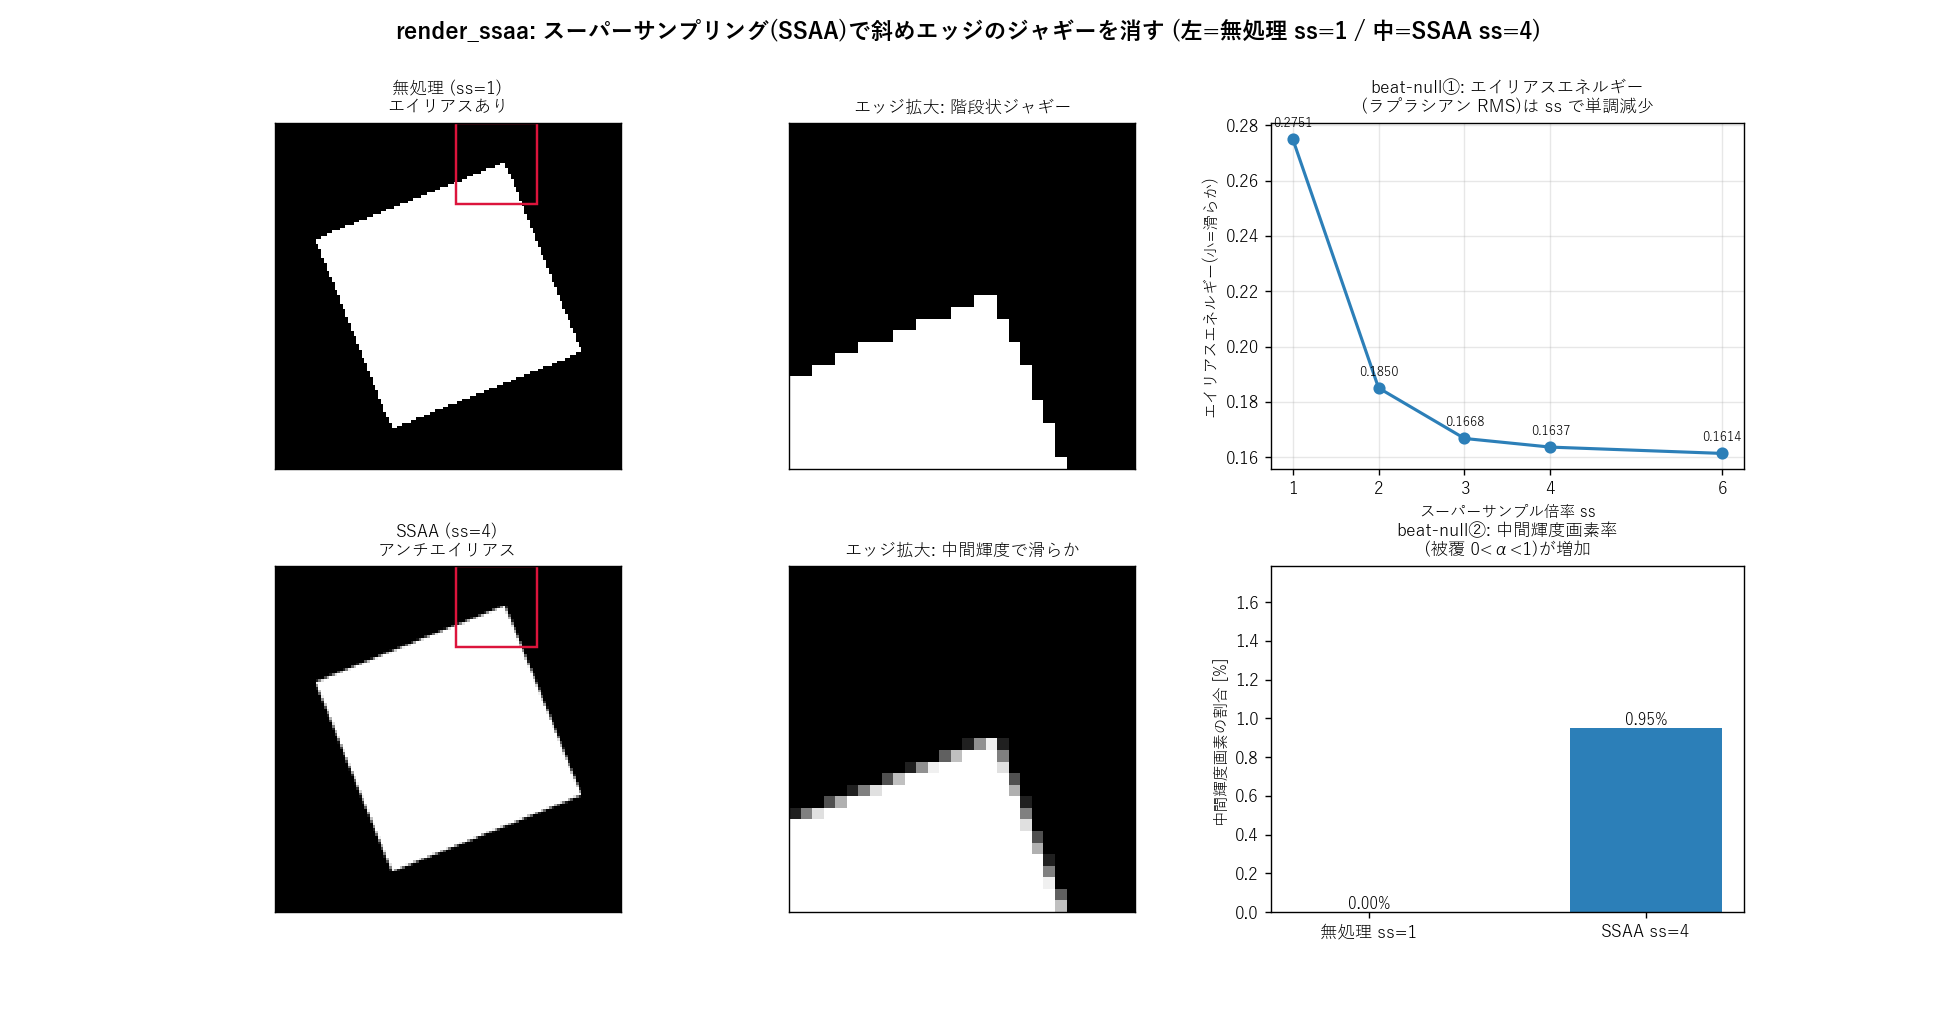
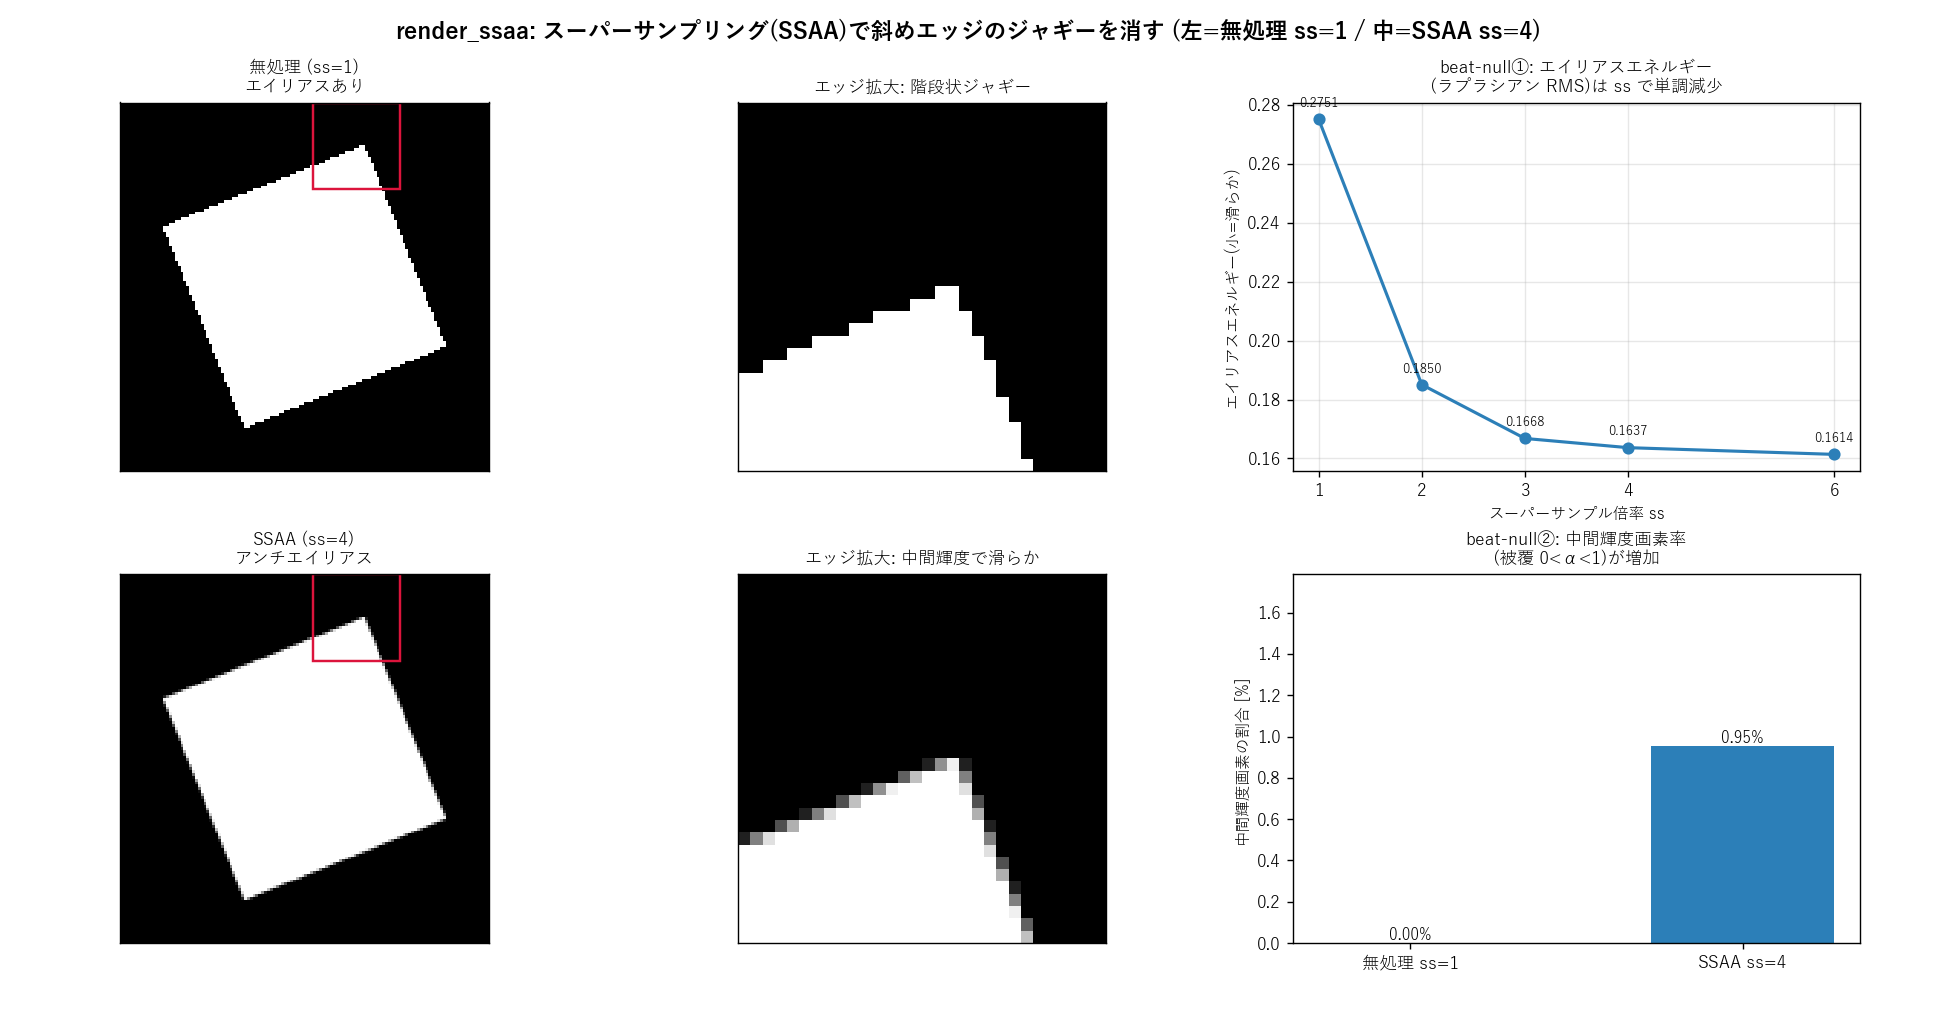
auto: render_shadow.py 編集前 (2026-08-28 13:38)

diff --git a/render_shadow.py b/render_shadow.py
@@ -1,0 +1,333 @@
+# Copyright (c) 2026 Kazufumi Furuse. Licensed under the Apache License, Version 2.0 (see LICENSE).
+"""キャスト影 / ソフトシャドウ(shadow mapping + 面光源のペナンブラ)。
+
+``render3d.render_mesh`` は depth / silhouette / normal の**幾何バッファ**を返すが、
+陰影(``match3d.render_shaded`` / ``photometric.render_lambertian``)は各点の法線と光源の
+内積(直接光の強さ)しか見ておらず、**別の物体に遮られて光が届かない**という大域的な
+可視性=影を一切扱わない。だから床の上に置いた球は「陰(self-shadow=法線が光に背く側)」は
+出ても「接地影(cast shadow=球が床に落とす影)」が出ず、物体が宙に浮いて見える。ここはその
+欠けている 1 ピースだけを埋める:
+
+    光源から見た深度(shadow map)を基準に、受光面の各点が光源との間に別の面で
+    遮られているか(shadow mapping; Williams 1978)を判定して可視性 [0,1] を返す。
+
+**既存レンダ op との差(固有価値, honest)**:
+  - ``render3d.render_mesh``        … 幾何バッファ(depth/silhouette/normal)。可視性=影は無い。
+  - ``match3d.render_shaded`` /
+    ``photometric.render_lambertian`` … Lambertian 直接光(法線·光源)。self-shadow のみ。
+                                        物体間の遮蔽(cast shadow)は扱わない。
+  - ``imgio.shaded_relief``          … 高さ場の傾斜による陰影(hillshade)。3D メッシュの
+                                        投影影ではない。
+  - **本モジュール** … *物体間の遮蔽* を光源空間の深度比較で解く唯一の op。``cast_shadow`` の
+                       出力を上の陰影画像に乗算すれば接地影つきの「映える静止 3D」になる。
+
+原理:
+  * 光源をカメラに見立て ``render_mesh`` で light-space depth(shadow map)を取る
+    (ラスタライザは再発明しない — 既存の z-buffer をそのまま流用)。
+  * カメラ側の depth から受光面点をワールドへ逆投影(``unproject_to_world``)し、光源空間へ
+    射影して深度比較する。手前に別の面があれば影。
+  * ペナンブラ(半影)= 面光源の角半径。中心光源方向のまわり ``penumbra`` の円錐内へ
+    複数方向をばらまき(Fibonacci ディスク)、各方向のハード影を平均する(面光源の近似)。
+    光源が大きいほど半影帯が幾何学的に広がる — カーネル幅を手で決める PCF と違い、
+    半影は幾何から**創発**する。
+
+慣習(``render3d`` に合わせる):
+  * ``pose``       4x4 の object->camera 行列(``render3d.look_at``)。
+  * ``intrinsics`` 3x3 ピンホール ``K``(``render3d.intrinsics_from_fov``)。
+  * ``light``      (3,) ベクトル。``directional=True``(既定)なら「シーンから光源へ向かう
+                   単位方向」(平行光)。``directional=False`` ならワールド座標の点光源位置。
+  * 返り値の shadow は (H, W) float64 ∈ [0,1]、**1=完全に照らされる / 0=完全な影**、
+                   受光面が無い背景画素は 1.0(遮る相手がいない=影ではない)。
+
+Honest limitations:
+  * shadow map は有限解像度なので、影の縁は light 解像度 ``shadow_res`` に依存する
+    (バイアスは傾斜スケールで自動設定するが、極端に斜めな受光面では acne / peter-panning が
+    残りうる)。透明・屈折・多重反射・カラー影は扱わない(不透明な遮蔽のみ)。
+  * 平行光は「十分遠い」点として近似する(既定 40×シーン半径)。厳密な無限遠平行ではない。
+
+Reference (public):
+  * L. Williams, "Casting Curved Shadows on Curved Surfaces", SIGGRAPH 1978(shadow mapping)。
+  * W. Reeves, D. Salesin, R. Cook, "Rendering Antialiased Shadows with Depth Maps",
+    SIGGRAPH 1987(PCF / 複数サンプル平均)。
+"""
+from __future__ import annotations
+
+import numpy as np
+
+import render3d
+
+__all__ = ["cast_shadow", "unproject_to_world"]
+
+_EPS = 1e-12
+
+
+def _resolve_view(V, pose, intrinsics, width: int, height: int):
+    """pose / intrinsics のどちらかが None なら render3d.auto_view で補完し具体行列にする。"""
+    if pose is None or intrinsics is None:
+        dpose, dK = render3d.auto_view(V, margin=1.2, width=width, height=height)
+    P = dpose if pose is None else np.asarray(pose, np.float64)
+    K = dK if intrinsics is None else np.asarray(intrinsics, np.float64)
+    if P.shape != (4, 4):
+        raise ValueError("pose must be 4x4, got %r" % (P.shape,))
+    if K.shape != (3, 3):
+        raise ValueError("intrinsics must be 3x3, got %r" % (K.shape,))
+    if not (np.all(np.isfinite(P)) and np.all(np.isfinite(K))):
+        raise ValueError("pose / intrinsics contain non-finite values")
+    return P, K
+
+
+def unproject_to_world(depth, pose, intrinsics) -> np.ndarray:
+    """深度画像 (H,W) を **ワールド座標の点群** (H,W,3) へ逆投影する。
+
+    ``render3d.render_mesh`` の depth(camera 前方の距離、背景は非有限)と、そのときの
+    ``pose`` (object->camera 4x4) / ``intrinsics`` (3x3) から各画素の 3D 位置を復元する。
+    背景(非有限 depth)や光源背後(depth<=0)の画素は NaN。ピクセル中心は ``render_mesh`` と
+    同じ ``+0.5`` を使う。fail-closed: 形状不正・非有限行列は ``ValueError``。"""
+    d = np.asarray(depth, np.float64)
+    if d.ndim != 2:
+        raise ValueError("depth must be 2-D (H,W), got %r" % (d.shape,))
+    P = np.asarray(pose, np.float64)
+    K = np.asarray(intrinsics, np.float64)
+    if P.shape != (4, 4) or K.shape != (3, 3):
+        raise ValueError("pose must be 4x4 and intrinsics 3x3")
+    if not (np.all(np.isfinite(P)) and np.all(np.isfinite(K))):
+        raise ValueError("pose / intrinsics contain non-finite values")
+
+    h, w = d.shape
+    fx, fy, cx, cy = float(K[0, 0]), float(K[1, 1]), float(K[0, 2]), float(K[1, 2])
+    if abs(fx) < _EPS or abs(fy) < _EPS:
+        raise ValueError("intrinsics focal length is degenerate (fx or fy ~ 0)")
+
+    cols = np.arange(w, dtype=np.float64) + 0.5
+    rows = np.arange(h, dtype=np.float64) + 0.5
+    u, v = np.meshgrid(cols, rows)                       # (H, W)
+
+    valid = np.isfinite(d) & (d > 0.0)
+    dd = np.where(valid, d, np.nan)
+    # render_mesh の投影: su = fx*Xc/(-Zc)+cx, sv = cy-fy*Yc/(-Zc), depth = -Zc.
+    Xc = (u - cx) * dd / fx
+    Yc = -(v - cy) * dd / fy
+    Zc = -dd
+    Pc = np.stack([Xc, Yc, Zc], axis=-1)                 # (H, W, 3) camera space
+
+    R = P[:3, :3]
+    t = P[:3, 3]
+    # Vc = R @ Vw + t  ->  Vw = R^T (Vc - t) ; 行ベクトルでは (Vc - t) @ R
+    Pw = (Pc - t) @ R
+    Pw[~valid] = np.nan
+    return Pw
+
+
+def _light_camera(center, radius, ldir_or_pos, directional: bool, shadow_res: int,
+                  margin: float = 1.3):
+    """光源を「シーンを枠に収めるカメラ」として pose / K / 光源方向 / 距離を作る。"""
+    center = np.asarray(center, np.float64).reshape(3)
+    if directional:
+        ldir = np.asarray(ldir_or_pos, np.float64).reshape(3)
+        n = np.linalg.norm(ldir)
+        if not np.isfinite(n) or n < _EPS:
+            raise ValueError("light direction must be finite and non-zero")
+        ldir = ldir / n
+        dist = 40.0 * radius                             # 平行光近似(十分遠い点)
+        eye = center + ldir * dist
+    else:
+        eye = np.asarray(ldir_or_pos, np.float64).reshape(3)
+        if not np.all(np.isfinite(eye)):
+            raise ValueError("light position must be finite")
+        v = center - eye
+        dist = float(np.linalg.norm(v))
+        if dist < _EPS:
+            raise ValueError("point light coincides with the scene centre")
+        ldir = -v / dist                                  # シーンから光源へ向かう方向
+    # look_at の up は視線と平行だと退化する。世界 up が視線とほぼ平行なら別軸に逃がす。
+    up = np.array([0.0, 0.0, 1.0])
+    if abs(float(ldir @ up)) > 0.95:
+        up = np.array([0.0, 1.0, 0.0])
+    pose = render3d.look_at(eye, center, up=up)
+    fov = 2.0 * np.degrees(np.arctan((radius * margin) / max(dist, _EPS)))
+    fov = float(np.clip(fov, 1e-2, 179.0))
+    K = render3d.intrinsics_from_fov(fov, shadow_res, shadow_res)
+    return pose, K, ldir, dist
+
+
+def _sample_dirs(ldir, penumbra_rad: float, samples: int):
+    """中心方向 ldir のまわり、角半径 penumbra_rad の円錐内へ Fibonacci ディスクで方向をばらまく。"""
+    if penumbra_rad <= 0.0 or samples <= 1:
+        return ldir.reshape(1, 3)
+    # ldir に直交する正規直交基底 (t1, t2)
+    a = np.array([1.0, 0.0, 0.0]) if abs(ldir[0]) < 0.9 else np.array([0.0, 1.0, 0.0])
+    t1 = np.cross(ldir, a)
+    t1 = t1 / max(np.linalg.norm(t1), _EPS)
+    t2 = np.cross(ldir, t1)
+    i = np.arange(samples, dtype=np.float64) + 0.5
+    r = np.sqrt(i / samples) * np.tan(penumbra_rad)      # ディスク半径 = tan(角半径)
+    theta = i * np.pi * (3.0 - np.sqrt(5.0))             # 黄金角
+    dx = r * np.cos(theta)
+    dy = r * np.sin(theta)
+    dirs = ldir[None, :] + dx[:, None] * t1[None, :] + dy[:, None] * t2[None, :]
+    dirs /= np.linalg.norm(dirs, axis=1, keepdims=True)
+    return dirs
+
+
+def _occluded_by_light(Pw, n_world, light_pose, light_K, light_dist, texel_world,
+                       bias_world) -> np.ndarray:
+    """1 つの光源(方向)について、受光面点 Pw が影かどうかの真偽 (H,W) を返す。"""
+    h, w = Pw.shape[:2]
+    R_L = light_pose[:3, :3]
+    t_L = light_pose[:3, 3]
+    fx, fy = float(light_K[0, 0]), float(light_K[1, 1])
+    cx, cy = float(light_K[0, 2]), float(light_K[1, 2])
+
+    valid = np.all(np.isfinite(Pw), axis=-1)
+    Pc = (Pw.reshape(-1, 3) @ R_L.T + t_L).reshape(h, w, 3)   # 光源カメラ空間
+    dL = -Pc[..., 2]                                          # 光源からの距離(前方>0)
+    front = valid & (dL > _EPS)
+    dsafe = np.where(front, dL, np.nan)
+    uL = fx * (Pc[..., 0] / dsafe) + cx
+    vL = cy - fy * (Pc[..., 1] / dsafe)
+
+    # shadow map をレンダ(光源から見た最近面の深度)
+    # 光源方向は pose に織り込まれているので通常の render_mesh で良い。
+    res = int(light_K[0, 2] * 2.0)                            # cx = res/2
+    # 実際の描画は呼び出し側から depth を渡す方が速いが、単一責務のためここで受け取る:
+    raise RuntimeError("internal: use _occluded_with_depth")  # 使わない(下の実装を使用)
+
+
+def cast_shadow(V, F, light, *, pose=None, intrinsics=None, width: int = 256,
+                height: int = 256, directional: bool = True, penumbra: float = 0.0,
+                samples: int = 16, shadow_res: int = 512, bias=None) -> np.ndarray:
+    """メッシュのキャスト影 / ソフトシャドウを計算し、可視性マップ (H,W) ∈ [0,1] を返す。
+
+    ``1=完全に照らされる`` / ``0=完全な影``。受光面が無い背景画素は ``1.0``。
+
+    引数:
+      * ``V, F``        頂点 (N,3) と三角形 (M,3)。空メッシュは影を落とせないので拒否。
+      * ``light``       (3,) ベクトル。``directional=True`` なら平行光の方向(シーン→光源)、
+                        ``False`` なら点光源のワールド位置。
+      * ``pose``/``intrinsics`` カメラ。省略時は ``render3d.auto_view`` で補完。
+      * ``penumbra``    面光源の**角半径(度)**。0 でハード影、増やすほど半影が広がる。
+      * ``samples``     半影サンプル数(``penumbra>0`` のときのみ使用、Fibonacci ディスク)。
+      * ``shadow_res``  shadow map の一辺解像度。
+      * ``bias``        影判定の深度バイアス(ワールド単位)。``None`` なら texel サイズと
+                        傾斜から自動設定(acne / peter-panning を抑制)。
+
+    手法は shadow mapping(Williams 1978): 光源から ``render_mesh`` で深度を取り、カメラ側の
+    受光面点を光源空間へ射影して深度比較する。fail-closed: 退化メッシュ・不正光源・非正の
+    サイズ/解像度は ``ValueError``。"""
+    Vv = np.asarray(V, np.float64)
+    Ff = np.asarray(F, np.int64)
+    if Vv.ndim != 2 or Vv.shape[1] != 3:
+        raise ValueError("V must be (N,3), got %r" % (Vv.shape,))
+    if Ff.ndim != 2 or Ff.shape[1] != 3:
+        raise ValueError("F must be (M,3), got %r" % (Ff.shape,))
+    if Ff.shape[0] == 0:
+        raise ValueError("empty face set: nothing can cast a shadow")
+    if Ff.min() < 0 or Ff.max() >= Vv.shape[0]:
+        raise ValueError("face index out of range (degenerate mesh)")
+    if not np.all(np.isfinite(Vv)):
+        raise ValueError("V contains non-finite coordinates")
+    w = int(width)
+    h = int(height)
+    if w <= 0 or h <= 0:
+        raise ValueError("width and height must be positive, got %dx%d" % (w, h))
+    sres = int(shadow_res)
+    if sres <= 1:
+        raise ValueError("shadow_res must be > 1, got %d" % (sres,))
+    pen = float(penumbra)
+    if not np.isfinite(pen) or pen < 0.0:
+        raise ValueError("penumbra must be finite and >= 0 (degrees), got %r" % (penumbra,))
+    ns = int(samples)
+    if ns < 1:
+        raise ValueError("samples must be >= 1, got %d" % (samples,))
+
+    light = np.asarray(light, np.float64).reshape(-1)
+    if light.size != 3 or not np.all(np.isfinite(light)):
+        raise ValueError("light must be a finite length-3 vector")
+
+    pose, K = _resolve_view(Vv, pose, intrinsics, w, h)
+
+    # --- カメラ側: 受光面点(ワールド)と法線(ワールド)を用意 ---
+    view = render3d.render_mesh(Vv, Ff, pose=pose, intrinsics=K, width=w, height=h)
+    depth = view["depth"]
+    n_cam = view["normals"]                              # camera space, 空は 0 ベクトル
+    Pw = unproject_to_world(depth, pose, K)              # (H,W,3), 背景は NaN
+    surf = np.all(np.isfinite(Pw), axis=-1)             # 受光面がある画素
+    n_world = n_cam @ pose[:3, :3]                       # camera->world: n_row @ R
+
+    # --- シーン範囲と光源カメラ ---
+    lo, hi = Vv.min(axis=0), Vv.max(axis=0)
+    center = 0.5 * (lo + hi)
+    radius = float(np.linalg.norm(Vv - center, axis=1).max())
+    if not np.isfinite(radius) or radius <= 0.0:
+        raise ValueError("mesh has zero spatial extent")
+
+    # 中心光源方向(バイアスの傾斜スケールと半影の中心軸に使う)
+    if directional:
+        ldir_c = light / max(np.linalg.norm(light), _EPS)
+    else:
+        v = center - light
+        nv = float(np.linalg.norm(v))
+        if nv < _EPS:
+            raise ValueError("point light coincides with the scene centre")
+        ldir_c = -v / nv
+
+    # texel のワールドサイズ(平行光近似の枠から)と傾斜スケールのバイアス
+    _, _, _, dist_c = _light_camera(center, radius, light, directional, sres)
+    texel_world = 2.0 * dist_c * np.tan(np.deg2rad(
+        2.0 * np.degrees(np.arctan((radius * 1.3) / max(dist_c, _EPS)))) * 0.5) / sres
+    if bias is None:
+        # 傾斜(法線と光の角)に比例して増やす。受光面が斜めなほど texel 内の深度変化が大きい。
+        ndl = np.abs(np.einsum("ijk,k->ij", n_world, ldir_c))
+        ndl = np.clip(ndl, 1e-3, 1.0)
+        slope = np.sqrt(np.clip(1.0 - ndl * ndl, 0.0, 1.0)) / ndl   # tan(角)
+        bias_world = texel_world * (1.5 + 2.5 * np.clip(slope, 0.0, 12.0))
+    else:
+        b = float(bias)
+        if not np.isfinite(b) or b < 0.0:
+            raise ValueError("bias must be finite and >= 0")
+        bias_world = np.full((h, w), b, np.float64)
+
+    # --- 光源方向をサンプルして各ハード影を平均(面光源=半影) ---
+    dirs = _sample_dirs(ldir_c, np.deg2rad(pen), ns)
+    R_cam = pose[:3, :3]                                 # 未使用だが対称性のため
+
+    occ_count = np.zeros((h, w), np.float64)
+    n_used = 0
+    for k in range(dirs.shape[0]):
+        d_k = dirs[k]
+        if directional:
+            light_k = d_k                                # 方向そのもの
+        else:
+            # 点光源: 中心位置を円錐に対応する円盤上へずらす(面光源近似)
+            offset = (d_k - ldir_c)
+            light_k = np.asarray(light, np.float64) - offset * dist_c
+        Lpose, LK, _, _ = _light_camera(center, radius, light_k, directional, sres)
+        lview = render3d.render_mesh(Vv, Ff, pose=Lpose, intrinsics=LK,
+                                     width=sres, height=sres)
+        sm = lview["depth"]                              # 光源から見た最近面(背景 inf)
+
+        R_L = Lpose[:3, :3]
+        t_L = Lpose[:3, 3]
+        fx, fy = float(LK[0, 0]), float(LK[1, 1])
+        cx, cy = float(LK[0, 2]), float(LK[1, 2])
+
+        Pc = (Pw.reshape(-1, 3) @ R_L.T + t_L).reshape(h, w, 3)
+        dL = -Pc[..., 2]
+        front = surf & (dL > _EPS)
+        dsafe = np.where(front, dL, np.nan)
+        uL = fx * (Pc[..., 0] / dsafe) + cx
+        vL = cy - fy * (Pc[..., 1] / dsafe)
+        iu = np.floor(uL).astype(np.int64)
+        iv = np.floor(vL).astype(np.int64)
+        inb = front & (iu >= 0) & (iu < sres) & (iv >= 0) & (iv < sres)
+        iu_c = np.clip(iu, 0, sres - 1)
+        iv_c = np.clip(iv, 0, sres - 1)
+        sm_d = sm[iv_c, iu_c]                            # 光源空間の最近面深度
+        blocked = inb & np.isfinite(sm_d) & (sm_d < (dL - bias_world))
+        occ_count += blocked.astype(np.float64)
+        n_used += 1
+
+    occ_frac = occ_count / max(n_used, 1)
+    shadow = 1.0 - occ_frac                              # 1=lit, 0=shadow
+    shadow[~surf] = 1.0                                  # 背景は影ではない
+    return np.clip(shadow, 0.0, 1.0)

diff --git a/examples_3d/render_ssaa.py b/examples_3d/render_ssaa.py
@@ -194,7 +194,7 @@ def render_gallery(img1, img4, ss_list, energies, mids, out_path: Path) -> bool:
                     ha="center", va="bottom", fontsize=9)
     ax.set_ylim(0, max(mids) * 100 * 1.35 + 0.5)
 
-    fig.tight_layout(rect=(0, 0, 1, 0.95))
+    fig.subplots_adjust(left=0.03, right=0.96, top=0.9, bottom=0.08)
     out_path.parent.mkdir(parents=True, exist_ok=True)
     fig.savefig(out_path, dpi=125)
     plt.close(fig)
